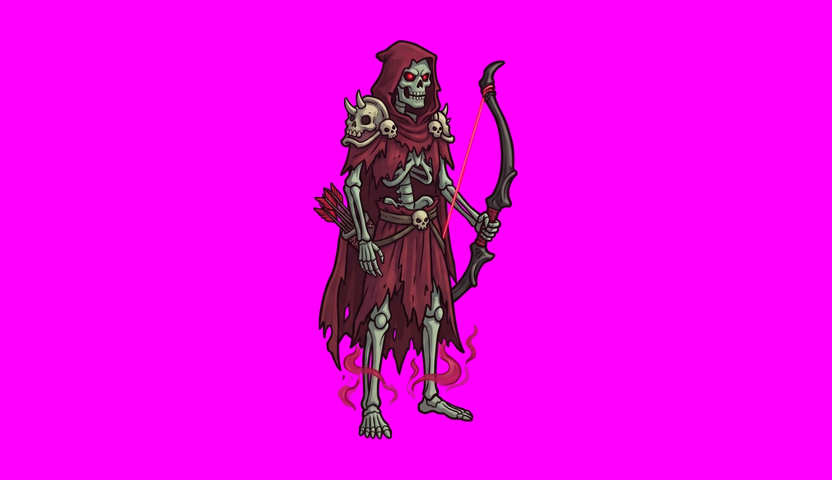
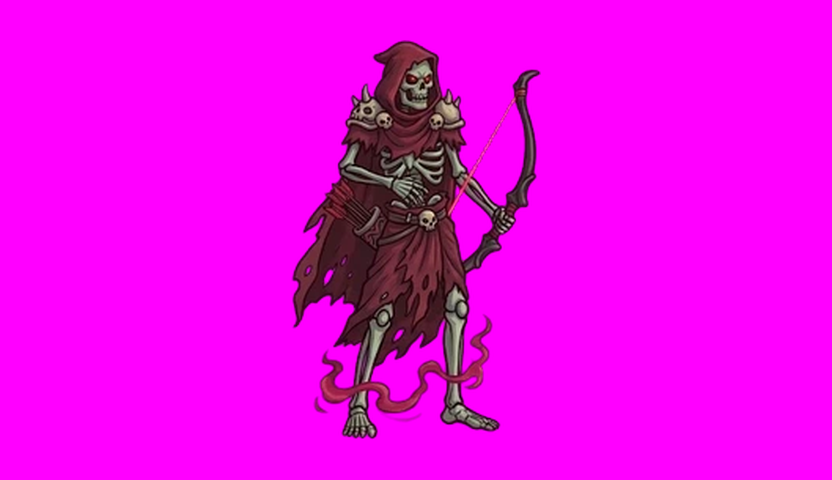
Kuledeki iskeletlerin yürüyüşü (Kaggle Wan): 1. ve 3. kademe arbaletçi, ağır arbaletçi; bekleme pozundaki boyla, konturlu

Changed region(s): [[0.3438, 0.0625, 0.6562, 0.9375]]

diff --git a/sinir-kalesi/js/game.js b/sinir-kalesi/js/game.js
@@ -5514,6 +5514,18 @@ function outlined(im, R = 7, col = 'rgba(14,6,12,0.92)') {
   g.drawImage(im, R, R); c.pad = R; OUTL.set(im, c);
   return c;
 }
+// görseldeki karakterin dolu yüksekliğinin tuval yüksekliğine oranı (poz tuvallerinde başın üstünde boşluk olabilir); bir kez ölçülür
+const BODY_R = new Map();
+function bodyRatio(im) {
+  if (!im) return 1;
+  let r = BODY_R.get(im); if (r) return r;
+  const c = document.createElement('canvas'); c.width = Math.max(1, im.width >> 2); c.height = Math.max(1, im.height >> 2);
+  const g = c.getContext('2d', { willReadFrequently: true }); g.drawImage(im, 0, 0, c.width, c.height);
+  const d = g.getImageData(0, 0, c.width, c.height).data; let top = c.height;
+  for (let y = 0; y < c.height && top === c.height; y++) for (let x = 0; x < c.width; x++) if (d[(y * c.width + x) * 4 + 3] > 40) { top = y; break; }
+  r = clamp(1 - top / c.height, 0.5, 1); BODY_R.set(im, r);
+  return r;
+}
 // konturlu şerit karesi (drawFrame gibi; kontur şeridin tamamına bir kez çizilir, kare komşu karenin kontur payını da alır)
 function drawFrameOutlined(img, F, i, h) {
   const O = outlined(img, Math.max(3, Math.round(7 * F.fh / 300))), p = O.pad, k = h / (F.ch * F.fh), dw = F.fw * k, dh = F.fh * k;
@@ -5581,7 +5593,7 @@ function drawXbowMen(t, ts, redraw) {
     if (pose === '_load') back = Math.sin(a.anim * 13) * h * 0.006; // kurma kolu çevrilirken gövde hafifçe sallanır
     ctx.translate(-h * 0.07 * kk * (M.bow ? 0 : 1) - back, -bob); ctx.rotate(lean); ctx.scale(sx, sy);
     const wk = a.walking && !up && animStrip(pre, null, '_walk'); // platformda yer değiştirirken yürüme şeridi (Kaggle Wan, 49 kare)
-    if (wk) drawFrameOutlined(spr(wk), ANIM_META[wk], Math.floor(a.anim * 20) % ANIM_META[wk].n, h);
+    if (wk) drawFrameOutlined(spr(wk), ANIM_META[wk], Math.floor(a.anim * 20) % ANIM_META[wk].n, h * bodyRatio(spr(pre))); // bekleme pozundaki boyla aynı
     else { const io = outlined(im), w0 = h * im.width / im.height, kk2 = w0 / im.width; drawSprite(ctx, io, 0, io.pad * kk2, io.width * kk2); }
     ctx.restore();
     const o = xbowTip(t, ts, a);

diff --git a/sinir-kalesi/index.html b/sinir-kalesi/index.html
@@ -11,7 +11,7 @@
 <canvas id="game" aria-label="Sınır Kalesi oyun alanı"></canvas>
 <script>
   // Sürüm damgası: her yayında artırılır; tarayıcı eski önbellek kopyasını kullanmaz (js ve görseller).
-  window.SURUM = '292';
+  window.SURUM = '293';
   // dil: kayıtlı seçim ya da cihaz dili; tr/en dışındakiler için çeviri sözlüğü dil.js'ten önce yüklenir
   window.__dilYukle = (function () {
     var l = null; try { l = localStorage.getItem('sinirKalesi.lang'); } catch (e) {}

diff --git a/sinir-kalesi/yayin.html b/sinir-kalesi/yayin.html
@@ -11,7 +11,7 @@
 <canvas id="game" aria-label="Sınır Kalesi oyun alanı"></canvas>
 <script>
   // Sürüm damgası: her yayında artırılır; tarayıcı eski önbellek kopyasını kullanmaz (js ve görseller).
-  window.SURUM = '292';
+  window.SURUM = '293';
   // dil: kayıtlı seçim ya da cihaz dili; tr/en dışındakiler için çeviri sözlüğü dil.js'ten önce yüklenir
   window.__dilYukle = (function () {
     var l = null; try { l = localStorage.getItem('sinirKalesi.lang'); } catch (e) {}
